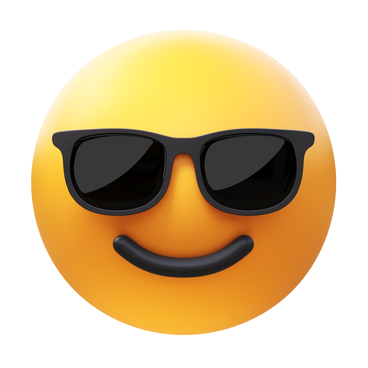
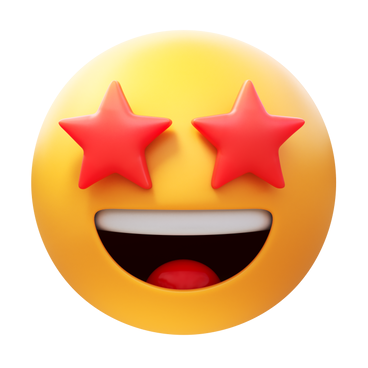
adding json states file

Changed region(s): [[0.1196, 0.2092, 0.8668, 0.8071]]

diff --git a/mobile_app/screens/currentDriver.js b/mobile_app/screens/currentDriver.js
@@ -29,11 +29,13 @@ export default function UserProfile({ navigation }) {
   const route = useRoute();
   const { vin, userId } = route.params || {};
 
-  const [name, setName] = useState('');
+  const [name, setName] = useState('Abdelrahman Ahmed');
   const [speedLimit, setSpeedLimit] = useState('');
   const [maxSpeed, setMaxSpeed] = useState('');
   const [aggressiveDriving, setAggressiveDriving] = useState('');
   const [drowsiness, setDrowsiness] = useState('');
+  const [drowsinessState, setDrowsinessState] = useState('Drowsy');
+  const [drowsinessImage , setDrowsinessImage] = useState('')
   const [focus, setFocus] = useState('');
   const [drivingScore, setDrivingScore] = useState(0);
   const [image, setImage] = useState('');
@@ -58,15 +60,16 @@ export default function UserProfile({ navigation }) {
         const imageUrl = `http://${ip}:5000/users/images/${userData.image}`;
         setImage(imageUrl);
 
-        if (userData.driving_score === 0) {
+        if (userData.driving_score === 10) {
           setScoreLottie(require('../assets/border-success-secoundry.json'));
-        } else if (userData.driving_score < 3) {
+        } else if (userData.driving_score > 7) {
           setScoreLottie(require('../assets/border-success.json'));
-        } else if (userData.driving_score < 7) {
+        } else if (userData.driving_score < 3) {
           setScoreLottie(require('../assets/border-warning.json'));
         } else {
           setScoreLottie(require('../assets/border-danger.json'));
         }
+
 
         hideAlert();
       }
@@ -79,11 +82,24 @@ export default function UserProfile({ navigation }) {
     }
   };
 
+
   useEffect(() => {
     if (userId) {
       fetchUserData();
     }
   }, []);
+  useEffect(() => {
+    if (drowsinessState === "Awake") {
+      setDrowsinessImage(require('../assets/emoji/Awake.png'));
+    } else if (drowsinessState === "Break") {
+      setDrowsinessImage(require('../assets/emoji/Break.png'));
+    } else if (drowsinessState === "Drowsy") {
+      setDrowsinessImage(require('../assets/emoji/Drowsy.png'));
+    } else if (drowsinessState === "ASleep") {
+      setDrowsinessImage(require('../assets/emoji/Asleep.png'));
+    }
+  }, [drowsinessState]);
+  
 
   const onRefresh = useCallback(async () => {
     setRefreshing(true);
@@ -154,7 +170,7 @@ export default function UserProfile({ navigation }) {
           </View>
         </View>
 
-        <View style={styles.scoreContainer}>
+        <View style={styles.singleContainers}>
           <View style={styles.overlay}>
             <Text style={styles.containerMainText}>Driving Score</Text>
             <View style={styles.scoreOuterCircle}>
@@ -170,7 +186,38 @@ export default function UserProfile({ navigation }) {
             </View>
           </View>
         </View>
+
+        <View style={styles.singleContainers}>
+          <View style={styles.overlay}>
+            <Text style={styles.containerMainText}>Drowsiness Monitor</Text>
+            <Image
+              source={drowsinessImage}
+              style={styles.drowsiness_container_image}
+              resizeMode="contain"
+            />
+          </View>
+        </View>
+
+        <View style={styles.singleContainers}>
+          <View style={styles.overlay}>
+            <Text style={styles.containerMainText}>Distraction Mode</Text>
+            <View style={styles.scoreOuterCircle}>
+              {scoreLottie ? (
+                <LottieView
+                  source={scoreLottie}
+                  autoPlay
+                  loop
+                  style={styles.scoreInnerCircle}
+                />
+              ) : null}
+              <Text style={styles.scoreText}>{drivingScore}</Text>
+            </View>
+          </View>
+        </View>
+
       </ScrollView>
+
+      
 
       <View style={styles.bottomNavBlurContainer}>
         <BlurView
@@ -229,7 +276,6 @@ const styles = StyleSheet.create({
   },
   scrollContainer: {
     width: width,
-    marginBottom: 0,
   },
   name: {
     fontSize: 25,
@@ -273,7 +319,7 @@ const styles = StyleSheet.create({
     alignItems: 'flex-start',
     borderRadius: 150,
   },
-  scoreContainer: {
+  singleContainers: {
     marginTop: 40,
     width: width * 0.95,
     marginHorizontal: width * 0.025,
@@ -290,7 +336,7 @@ const styles = StyleSheet.create({
     shadowOpacity: 0.3,
     shadowRadius: 20,
     elevation: 20,
-    marginBottom: 60,
+    marginBottom: 0,
   },
   scoreOuterCircle: {
     width: width,
@@ -303,8 +349,8 @@ const styles = StyleSheet.create({
   },
   containerMainText: {
     fontSize: 20,
+    color: colors.primary,
     fontWeight: 'bold',
-    color: '#FFFFFF',
     marginVertical: 20,
     marginLeft: 20,
   },
@@ -317,6 +363,12 @@ const styles = StyleSheet.create({
     fontSize: 100,
     fontWeight: 'bold',
     color: colors.white,
+  },
+  drowsiness_container_image:{
+    width:200,
+    height:200,
+    alignSelf: 'center',
+
   },
   bottomNavBlurContainer: {
     position: 'absolute',
@@ -332,7 +384,7 @@ const styles = StyleSheet.create({
     shadowOpacity: 0.3,
     shadowRadius: 100,
     elevation: 20, // Android shadow
-    borderWidth: 2,
+    // borderWidth: 2,
     borderColor: colors.primary, 
   },
   bottomNavBlur:{

diff --git a/mobile_app/screens/user_profile.js b/mobile_app/screens/user_profile.js
@@ -57,12 +57,12 @@ export default function UserProfile({ navigation }) {
 
         const imageUrl = `http://${ip}:5000/users/images/${userData.image}`;
         setImage(imageUrl);
-
-        if (userData.driving_score === 0) {
+       
+        if (userData.driving_score === 10) {
           setScoreLottie(require('../assets/border-success-secoundry.json'));
-        } else if (userData.driving_score < 3) {
+        } else if (userData.driving_score > 7) {
           setScoreLottie(require('../assets/border-success.json'));
-        } else if (userData.driving_score < 7) {
+        } else if (userData.driving_score < 3) {
           setScoreLottie(require('../assets/border-warning.json'));
         } else {
           setScoreLottie(require('../assets/border-danger.json'));

diff --git a/backend_nodejs/controllers/vehicleController.js b/backend_nodejs/controllers/vehicleController.js
@@ -215,7 +215,6 @@ exports.setCurrentDriver = async (req, res) => {
     try {
         const { vehicle_id } = req.params;
         const { user_id, drowsiness_state, focus_state } = req.body;
-        console.log(vehicle_id);
         const vehicle = await VEHICLE.findOne({ vehicle_id: vehicle_id });
 
         if (!vehicle) {
@@ -224,6 +223,7 @@ exports.setCurrentDriver = async (req, res) => {
 
         vehicle.currentDriver = {
             user_id,
+            start_time,
             drowsiness_state,
             focus_state
         };

diff --git a/backend_nodejs/models/vehicles.models.js b/backend_nodejs/models/vehicles.models.js
@@ -21,6 +21,7 @@ const vehicleSchema = new mongoose.Schema({
 
   currentDriver:{
     user_id: { type: String, required: false ,default: null},
+    start_time: { type: Date, required: false ,default: null },
     drowsiness_state: { type: String, required: false ,default: null },
     focus_state: { type: String, required: false ,default: null },
   },

diff --git a/Carla 0.9.11/driving.py b/Carla 0.9.11/driving.py
@@ -1,7 +1,8 @@
-from config import MAX_ERRORS_ALLOWED, Max_dis, Min_dis, Ref_Mass, Ref_Speed, Base_Threshold, Summary_Dir, MAX_SPEED, Stop_for
+from config import MAX_ERRORS_ALLOWED, Max_dis, Min_dis, Ref_Mass, Ref_Speed, Base_Threshold, Summary_Dir, MAX_SPEED, Stop_for, STATES_FILE
 import os
 from datetime import datetime
 import carla
+import json
 
 class Behaviour:
     '''
@@ -32,6 +33,18 @@ class Behaviour:
         self.REFERENCE_MASS = Ref_Mass
         self.LANE_INVASION_WINDOW = 5.0
     
+    def updateJson(self, key, value):
+        try:
+            with open(STATES_FILE, 'r') as f:
+                data = json.load(f)
+        except FileNotFoundError:
+            data = {}
+
+        data[key] = value
+
+        with open(STATES_FILE, 'w') as f:
+            json.dump(data, f, indent=4)
+
     def get_speed(self):
         velocity = self.vehicle.vehicle.get_velocity()
         current_speed = (velocity.x**2 + velocity.y**2 + velocity.z**2)**0.5
@@ -176,6 +189,7 @@ class Behaviour:
                 print(f"***** Multiple Lane Invasions Detected: {source} *****")
                 self.error_log.append(("Lane Invasion", source))
                 self.errors += 1
+                self.updateJson("driving_score", MAX_ERRORS_ALLOWED - self.errors)
                 self.write_summary_file()
                 self.lane_invasion_times.clear()
 
@@ -190,12 +204,14 @@ class Behaviour:
                 
                 self.error_log.append(("Collision", actor_type))
                 self.errors += 1
+                self.updateJson("driving_score", MAX_ERRORS_ALLOWED - self.errors)
                 self.write_summary_file()
 
                 if intensity > dynamic_threshold:
                     print("***** DANGEROUS COLLISION DETECTED *****")
                     self.error_log.append(("Dangerous Collision", actor_type))
                     self.errors += 1
+                    self.updateJson("driving_score", MAX_ERRORS_ALLOWED - self.errors)
                     self.write_summary_file()
 
         if sensor_data['obstacle_events']:
@@ -207,6 +223,7 @@ class Behaviour:
                 print("***** Alarm: Watch Out *****")
                 self.error_log.append(("Obstacle Proximity", obstacle_type))
                 self.errors += 1
+                self.updateJson("driving_score", MAX_ERRORS_ALLOWED - self.errors)
                 self.write_summary_file()
             elif distance < Max_dis:
                 print("***** Alarm: Watch Out *****")

diff --git a/testing/model testing/Drowsiness&Distration v2.py b/testing/model testing/Drowsiness&Distration v2.py
@@ -142,7 +142,7 @@ while True:
                 if distraction_start_time is None:
                     distraction_start_time = time.time()
                 elif time.time() - distraction_start_time > WARNING_THRESHOLD:
-                    play_tone(300, 0.4)
+                    # play_tone(300, 0.4)
                     cv2.putText(frame, f"WARNING: Distracted ({distraction_reason})", (30, 80),
                                 cv2.FONT_HERSHEY_SIMPLEX, 1, (0, 0, 255), 2)
             else:
@@ -179,19 +179,23 @@ while True:
             if YAWN_TIME >= YAWN_TIME_THRESH:
                 D_TIME = 0
                 cv2.putText(frame, "YAWNING DETECTED!", (30, 120), cv2.FONT_HERSHEY_SIMPLEX, 1, (0, 165, 255), 2)
-                play_tone(700, 0.4)
+                print("YAWNING DETECTED!")
+                # play_tone(700, 0.4)
 
             elif pitch_angle is not None and pitch_angle > PITCH_LOOKING_DOWN_THRESHOLD:
                 LOOKING_DOWN_TIME += (t2 - t1)
                 cv2.putText(frame, "LOOKING DOWN", (30, 150), cv2.FONT_HERSHEY_SIMPLEX, 1, (255, 200, 0), 2)
-                play_tone(500, 0.5)
+                print("DISTRACTION DETECTED!")
+                # play_tone(500, 0.5)
                 if LOOKING_DOWN_TIME >= LOOKING_DOWN_DURATION_THRESHOLD:
                     cv2.putText(frame, "DROWSINESS ALERT (Head Down)!", (30, 180), cv2.FONT_HERSHEY_SIMPLEX, 1, (0, 0, 255), 2)
-                    play_tone(440, 0.7)
+                    print("DROWSINESS DETECTED!")
+                    # play_tone(440, 0.7)
 
             elif D_TIME >= WAIT_TIME:
                 cv2.putText(frame, "DROWSINESS ALERT!", (30, 90), cv2.FONT_HERSHEY_SIMPLEX, 1, (0, 0, 255), 2)
-                play_tone(440, 0.7)
+                print("DROWSINESS DETECTED!")
+                # play_tone(440, 0.7)
             else :
                LOOKING_DOWN_TIME = 0
 
@@ -205,7 +209,7 @@ while True:
             )
 
     t1 = t2
-    cv2.imshow("Driver Monitoring Distraction and Drowsiness", frame)
+    # cv2.imshow("Driver Monitoring Distraction and Drowsiness", frame)
     if cv2.waitKey(1) & 0xFF == ord("q"):
         break
 

diff --git a/Carla 0.9.11/config.py b/Carla 0.9.11/config.py
@@ -1,5 +1,23 @@
+import json
+
+import os
+
+STATES_FILE = os.path.join(os.path.dirname(__file__), "vehicle_state.json")
+
+
+MAX_SPEED_DEFAULT = 220
+
+def get_max_speed():
+    try:
+        with open(STATES_FILE, 'r') as f:
+            data = json.load(f)
+            return data.get("speed_limit") or MAX_SPEED_DEFAULT
+    except Exception as e:
+        print(f"[CONFIG] Failed to load speed_limit from JSON: {e}")
+        return MAX_SPEED_DEFAULT
+
 # config.py
-TOWN = 'Town01'
+TOWN = 'Town04'
 
 # Environment flags
 # ['Buildings', 'Decals', 'Foliage', 'Ground', 'ParkedVehicles', 'Particles', 'Props', 'Walls']
@@ -32,7 +50,7 @@ CAMERA_POSITION = {"x": 1.5, "z": 1.4, "pitch": 0, "yaw": 0}
 BASE_SPEED = 10          # Initial base speed in km/h (not used directly in new control scheme)
 SPEED_INCREMENT = 0.1    # Throttle increment for Z/X keys (previously Inc_Speed)
 Inc_Speed = 10
-MAX_SPEED = 50           # Maximum speed in km/h (used for display purposes)
+MAX_SPEED =  get_max_speed()           # Maximum speed in km/h (used for display purposes)
 MAX_ERRORS_ALLOWED = 10
 
 # Monitoring
